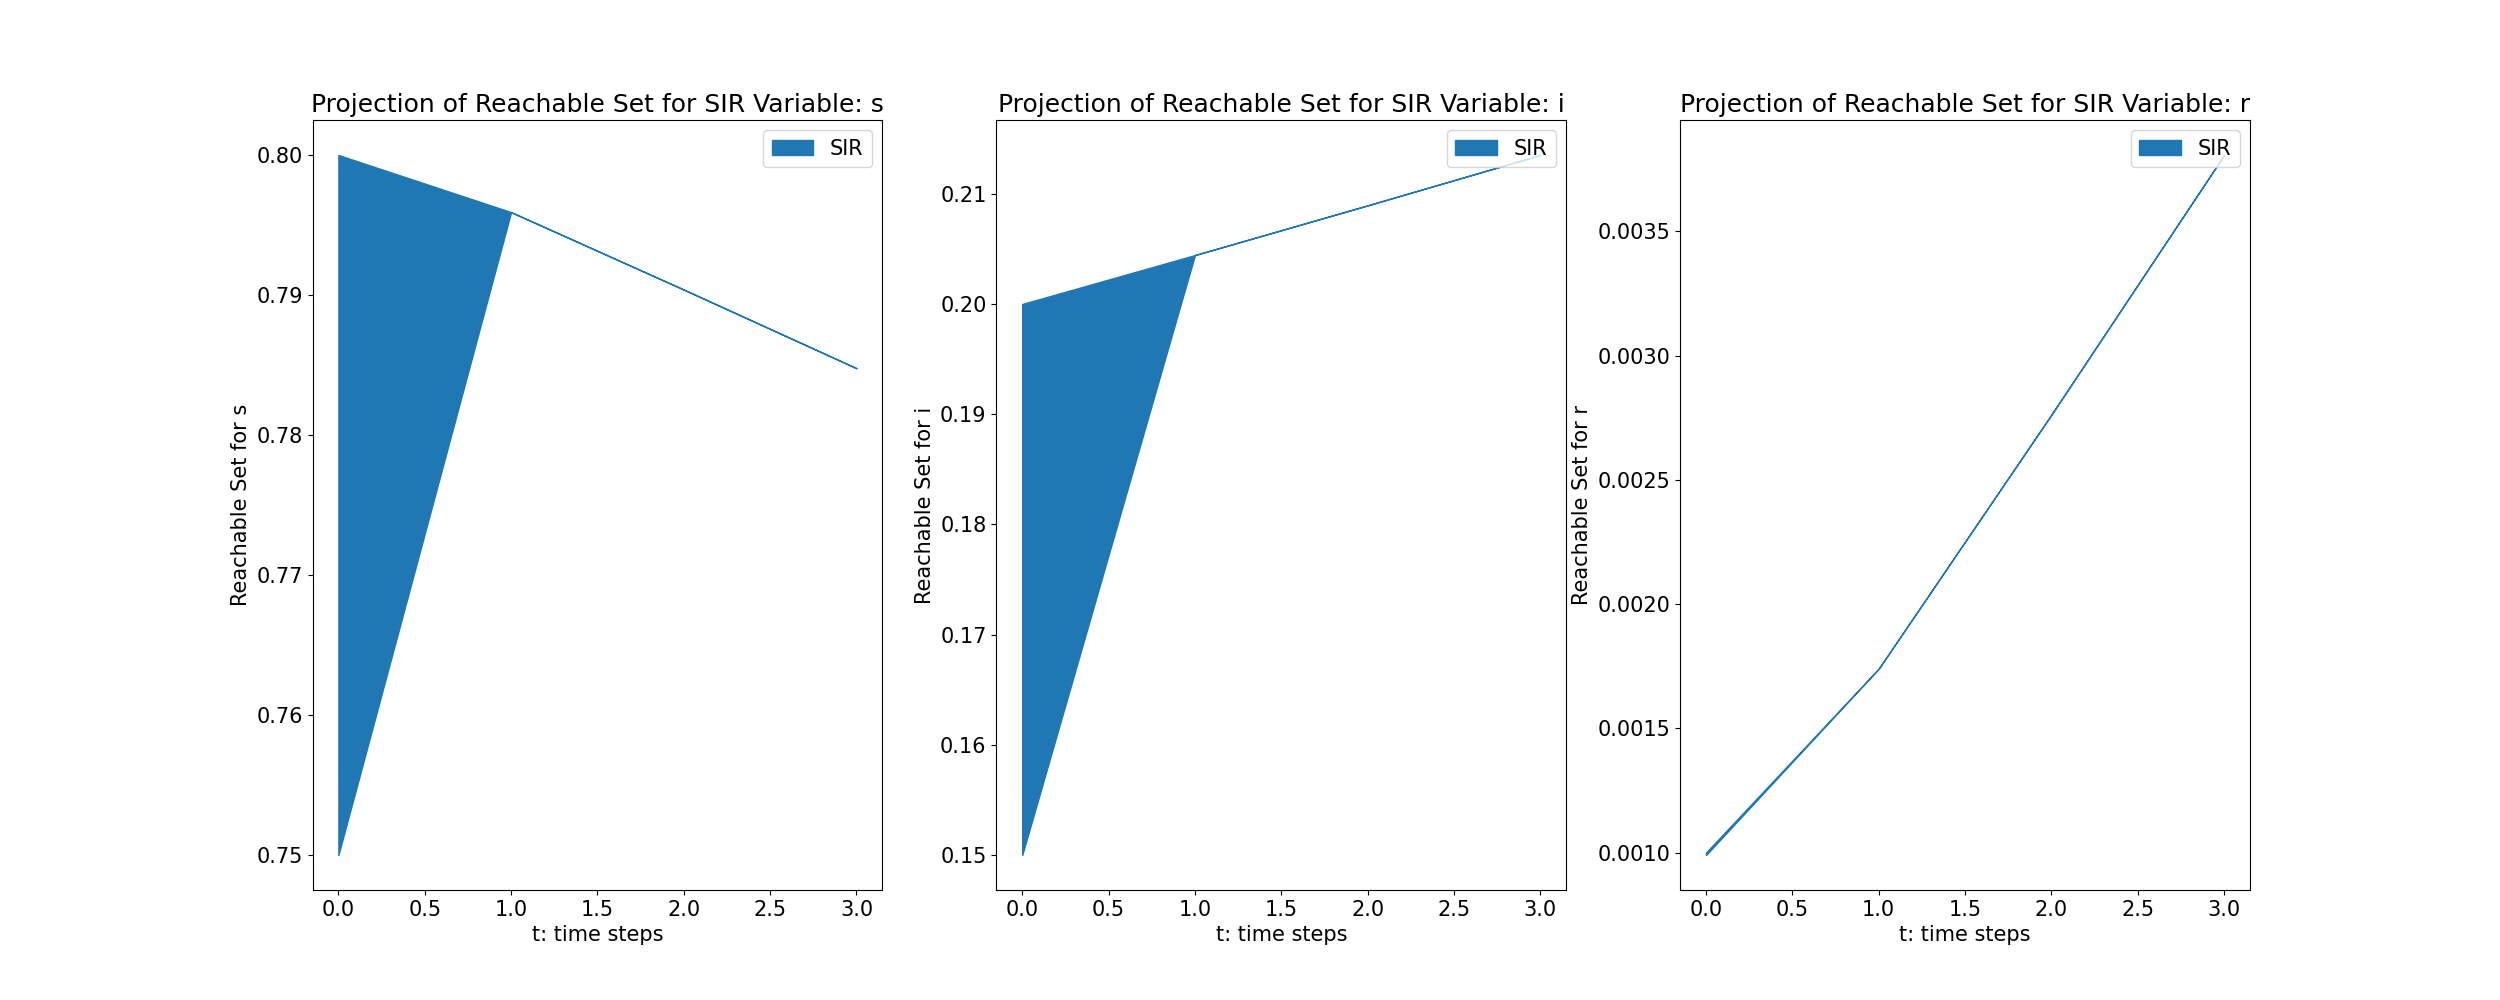
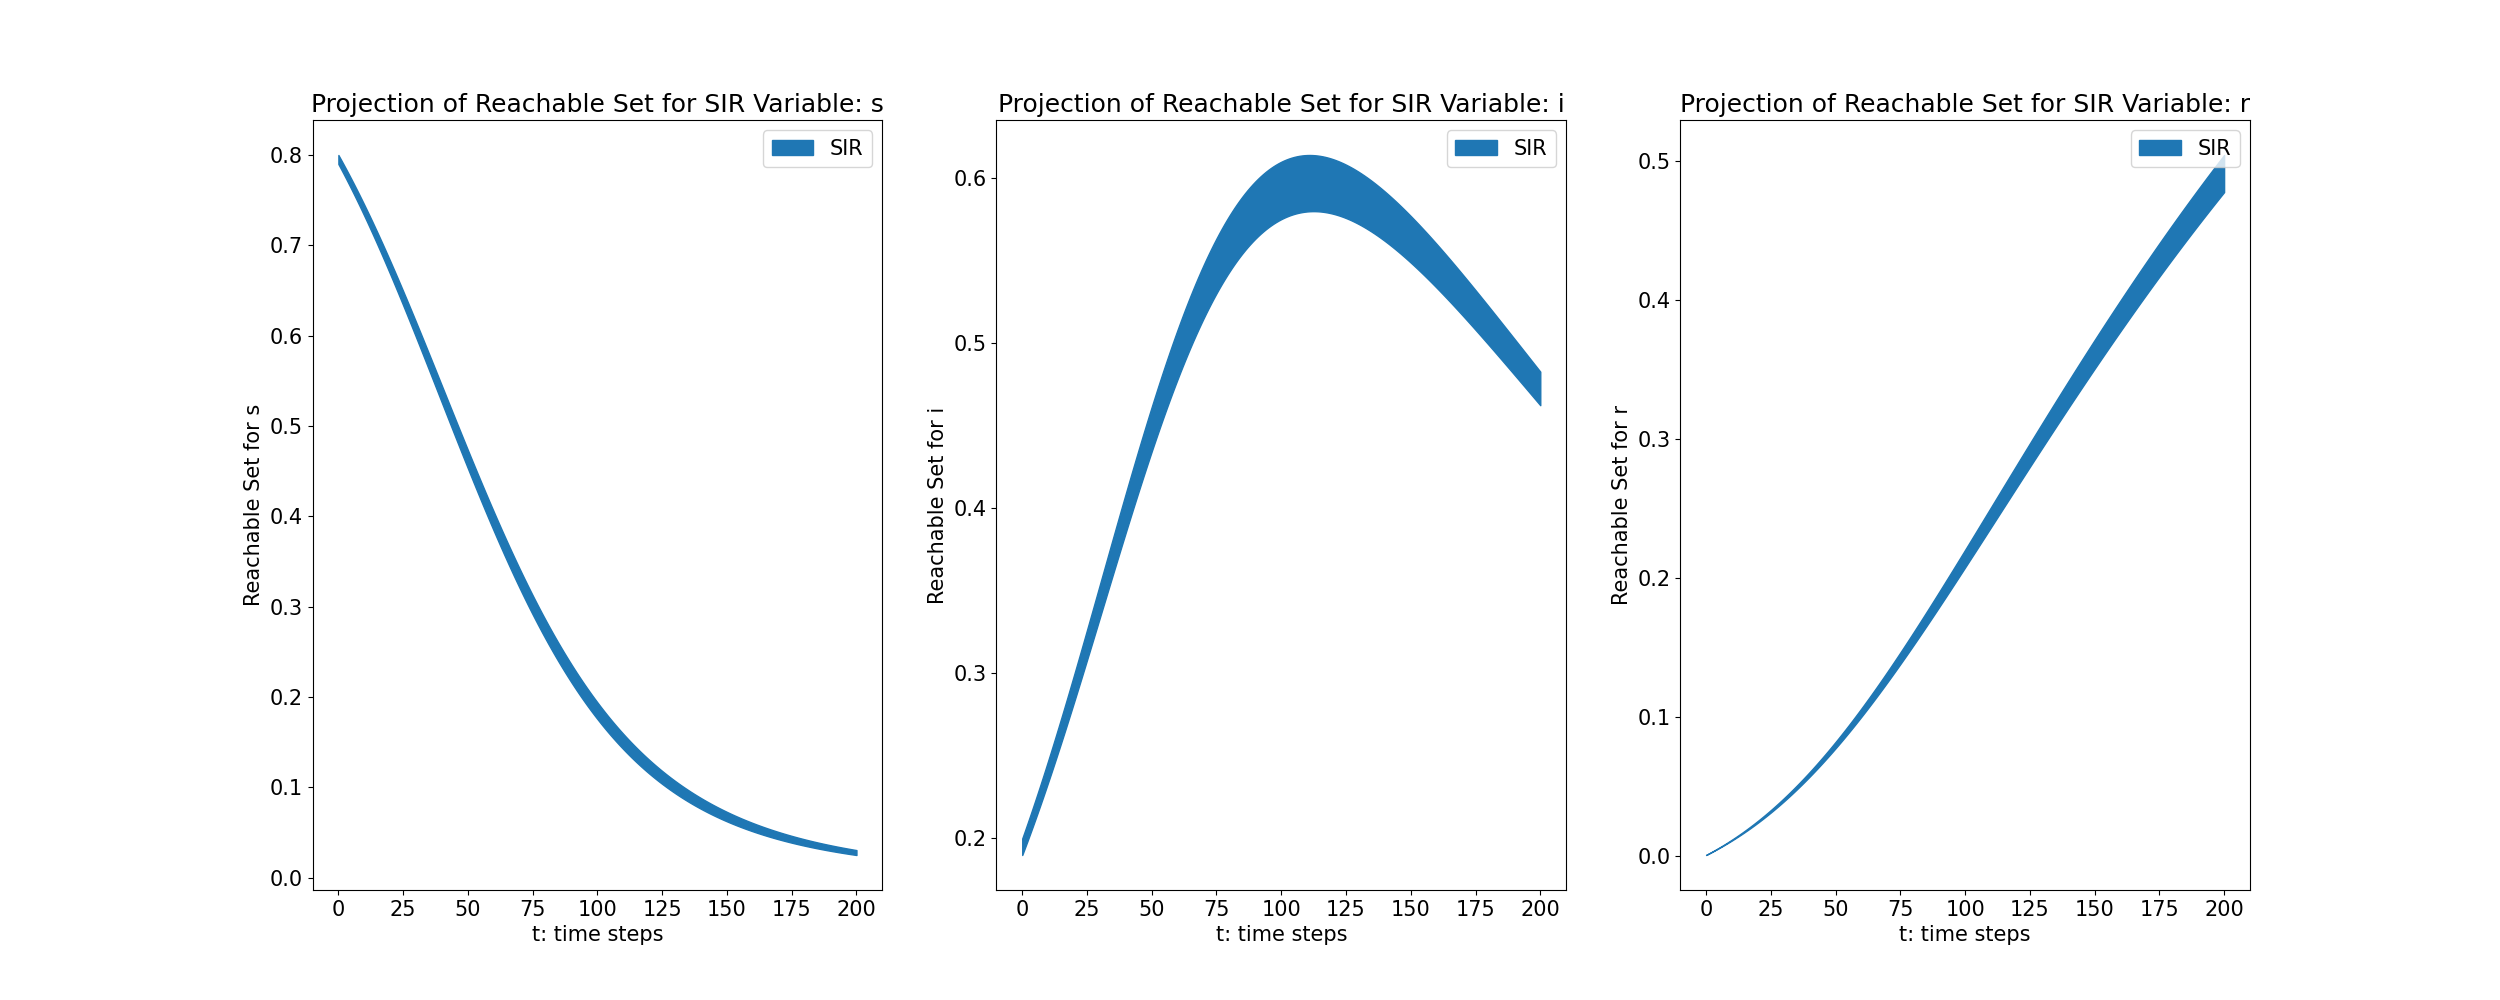
Fixed Polynomial substitution bug where sp.subs substituted subexpressions sequentially rather than in tandem

diff --git a/kaa/parallelotope.py b/kaa/parallelotope.py
@@ -1,5 +1,4 @@
 import numpy as np
-import sympy as sp
 import multiprocessing as mp
 
 from kaa.lputil import minLinProg, maxLinProg
@@ -17,6 +16,7 @@ class Parallelotope:
 
         self.A = A[:self.dim]
         self.b = b
+        self.u_b = self.b[:self.dim]
 
     """
     Return list of functions transforming the n-unit-box over the parallelotope.
@@ -57,9 +57,6 @@ class Parallelotope:
     @returns generator vectors g_j
     """
     def _computeGenerators(self, base_vertex):
-
-        u_b = self.b[:self.dim]
-        coeff_mat = self._convertMatFormat(self.A)
         
         'Hacky way to toggle parallelism for experiments'
         if KaaSettings.use_parallel:
@@ -70,11 +67,11 @@ class Parallelotope:
         else:
             vertices = []
             for i in range(self.dim):
-               vertices.append(self._gen_worker(i, u_b, coeff_mat))
+               vertices.append(self._gen_worker(i, self.u_b, self.A))
 
         vertex_list = [ [vert - base for vert, base in zip(vertices[i], base_vertex)] for i in range(self.dim) ]
-        print("Vertex List For Paratope: {} \n".format(vertices))
-        print("Vector List For Paratope: {} \n".format(vertex_list))
+        #print("Vertex List For Paratope: {} \n".format(vertices))
+        #print("Vector List For Paratope: {} \n".format(vertex_list))
         return vertex_list
 
     """
@@ -87,13 +84,12 @@ class Parallelotope:
     def _gen_worker(self, i, u_b, coeff_mat):
         #print(coeff_mat, u_b)
 
-        negated_bi = np.copy(u_b)
+        negated_bi = np.copy(self.u_b)
         negated_bi[i] = -self.b[i + self.dim]
-        negated_bi = self._convertMatFormat(negated_bi)
         #print("(coeff_mat, negated_bi): {}".format((coeff_mat, negated_bi)))
-        sol_set_i = sp.linsolve((coeff_mat, negated_bi), self.vars)
+        sol_set_i = np.linalg.solve(coeff_mat, negated_bi)
 
-        return self._convertSolSetToList(sol_set_i)
+        return list(sol_set_i)
 
     """
     Calculate the base vertex of the parallelotope (variable q)
@@ -107,16 +103,9 @@ class Parallelotope:
     """
     def _computeBaseVertex(self):
 
-        u_b = self.b[:self.dim]
-        
-        coeff_mat = self._convertMatFormat(self.A)
-        offset_mat = self._convertMatFormat(u_b)
-
-        sol_set = sp.linsolve((coeff_mat, offset_mat), self.vars)
-        sol_set = self._convertSolSetToList(sol_set)
-        print(" \n Base Vertex for Current Paratope: {} \n".format(list(sol_set)))
-
-        return sol_set
+        sol_set = np.linalg.solve(self.A, self.u_b)
+        #print(" \n Base Vertex for Current Paratope: {} \n".format(list(sol_set)))
+        return list(sol_set)
 
 
     """

diff --git a/kaa/bundle.py b/kaa/bundle.py
@@ -156,21 +156,18 @@ class BundleTransformer:
             genFun = p.getGeneratorRep()
 
             'Create subsitutions tuples.'
-            var_sub = {}
+            var_sub = []
             for var_ind, var in enumerate(bund.vars):
-                var_sub[var] = genFun[var_ind]
-
-            print(var_sub)
-            exit()
+                var_sub.append((var, genFun[var_ind]))
 
             Timer.start('Functional Composition')
-            fog = [ func.evalf(subs=var_sub) for func in self.f ]
-        #Run this in interactive output for SIR Column 3 output.
+            fog = [ func.subs(var_sub, simultaneous=True) for func in self.f ]
+            #Run this in interactive output for SIR Column 3 output.
             Timer.stop('Functional Composition')
 
-            print("FOG: {}".format(fog))
 
-            print("GenFun for Paratope: {}".format(genFun))
+            #print("FOG: {}".format(fog))
+            #print("GenFun for Paratope: {}".format(genFun))
 
             for column in row.astype(int):
                 curr_L = bund.L[column]
@@ -180,15 +177,14 @@ class BundleTransformer:
                 for coeff_idx, coeff in enumerate(curr_L):
                     bound_polyu += coeff * fog[coeff_idx]
 
-                print("Polynomial for Column {}: {}".format(column, bound_polyu))
+                #print("Polynomial for Column {}: {}".format(column, bound_polyu))
 
                 'Calculate min/max Bernstein coefficients.'
                 Timer.start('Kodiak Computation')
                 ub, lb = OptProd(bound_polyu, bund).getBounds()
                 Timer.stop('Kodiak Computation')
 
-                print("Column {}: {} \n".format(column, (ub,-1*lb)))
-
+                #print("Column {}: {} \n".format(column, (ub,-1*lb)))
                 new_offu[column] = min(ub, new_offu[column])
                 new_offl[column] = min(-1 * lb, new_offl[column])
 

diff --git a/models/sir.py b/models/sir.py
@@ -12,7 +12,7 @@ class SIR(Model):
 
       ds = s - (0.34*s*i)*0.1;
       di = i + (0.34*s*i - 0.05*i)*0.1;
-      dr = r + 0.05*i*0.1;
+      dr = r + (0.05*i)*0.1;
 
       dyns = [ds, di, dr]
       vars = [s, i, r] #In predetermined order
@@ -42,10 +42,10 @@ class SIR(Model):
       offl = np.zeros(num_direct)
 
       offu[0] = 0.8
-      offl[0] = -0.75
+      offl[0] = -0.79
 
       offu[1] = 0.2
-      offl[1] = -0.15
+      offl[1] = -0.19
 
       offu[2] = 0.001
       offl[2] = -0.00099

diff --git a/tests/models/test_sir.py b/tests/models/test_sir.py
@@ -10,7 +10,7 @@ def test_SIR():
     model = SIR()
     #trajs = generate_traj(model, 10, 200)
     mod_reach = ReachSet(model)
-    mod_flow = mod_reach.computeReachSet(3)
+    mod_flow = mod_reach.computeReachSet(200)
 
     sir_plot = Plot()
     #trajs = generate_traj(model, 10, 200)
